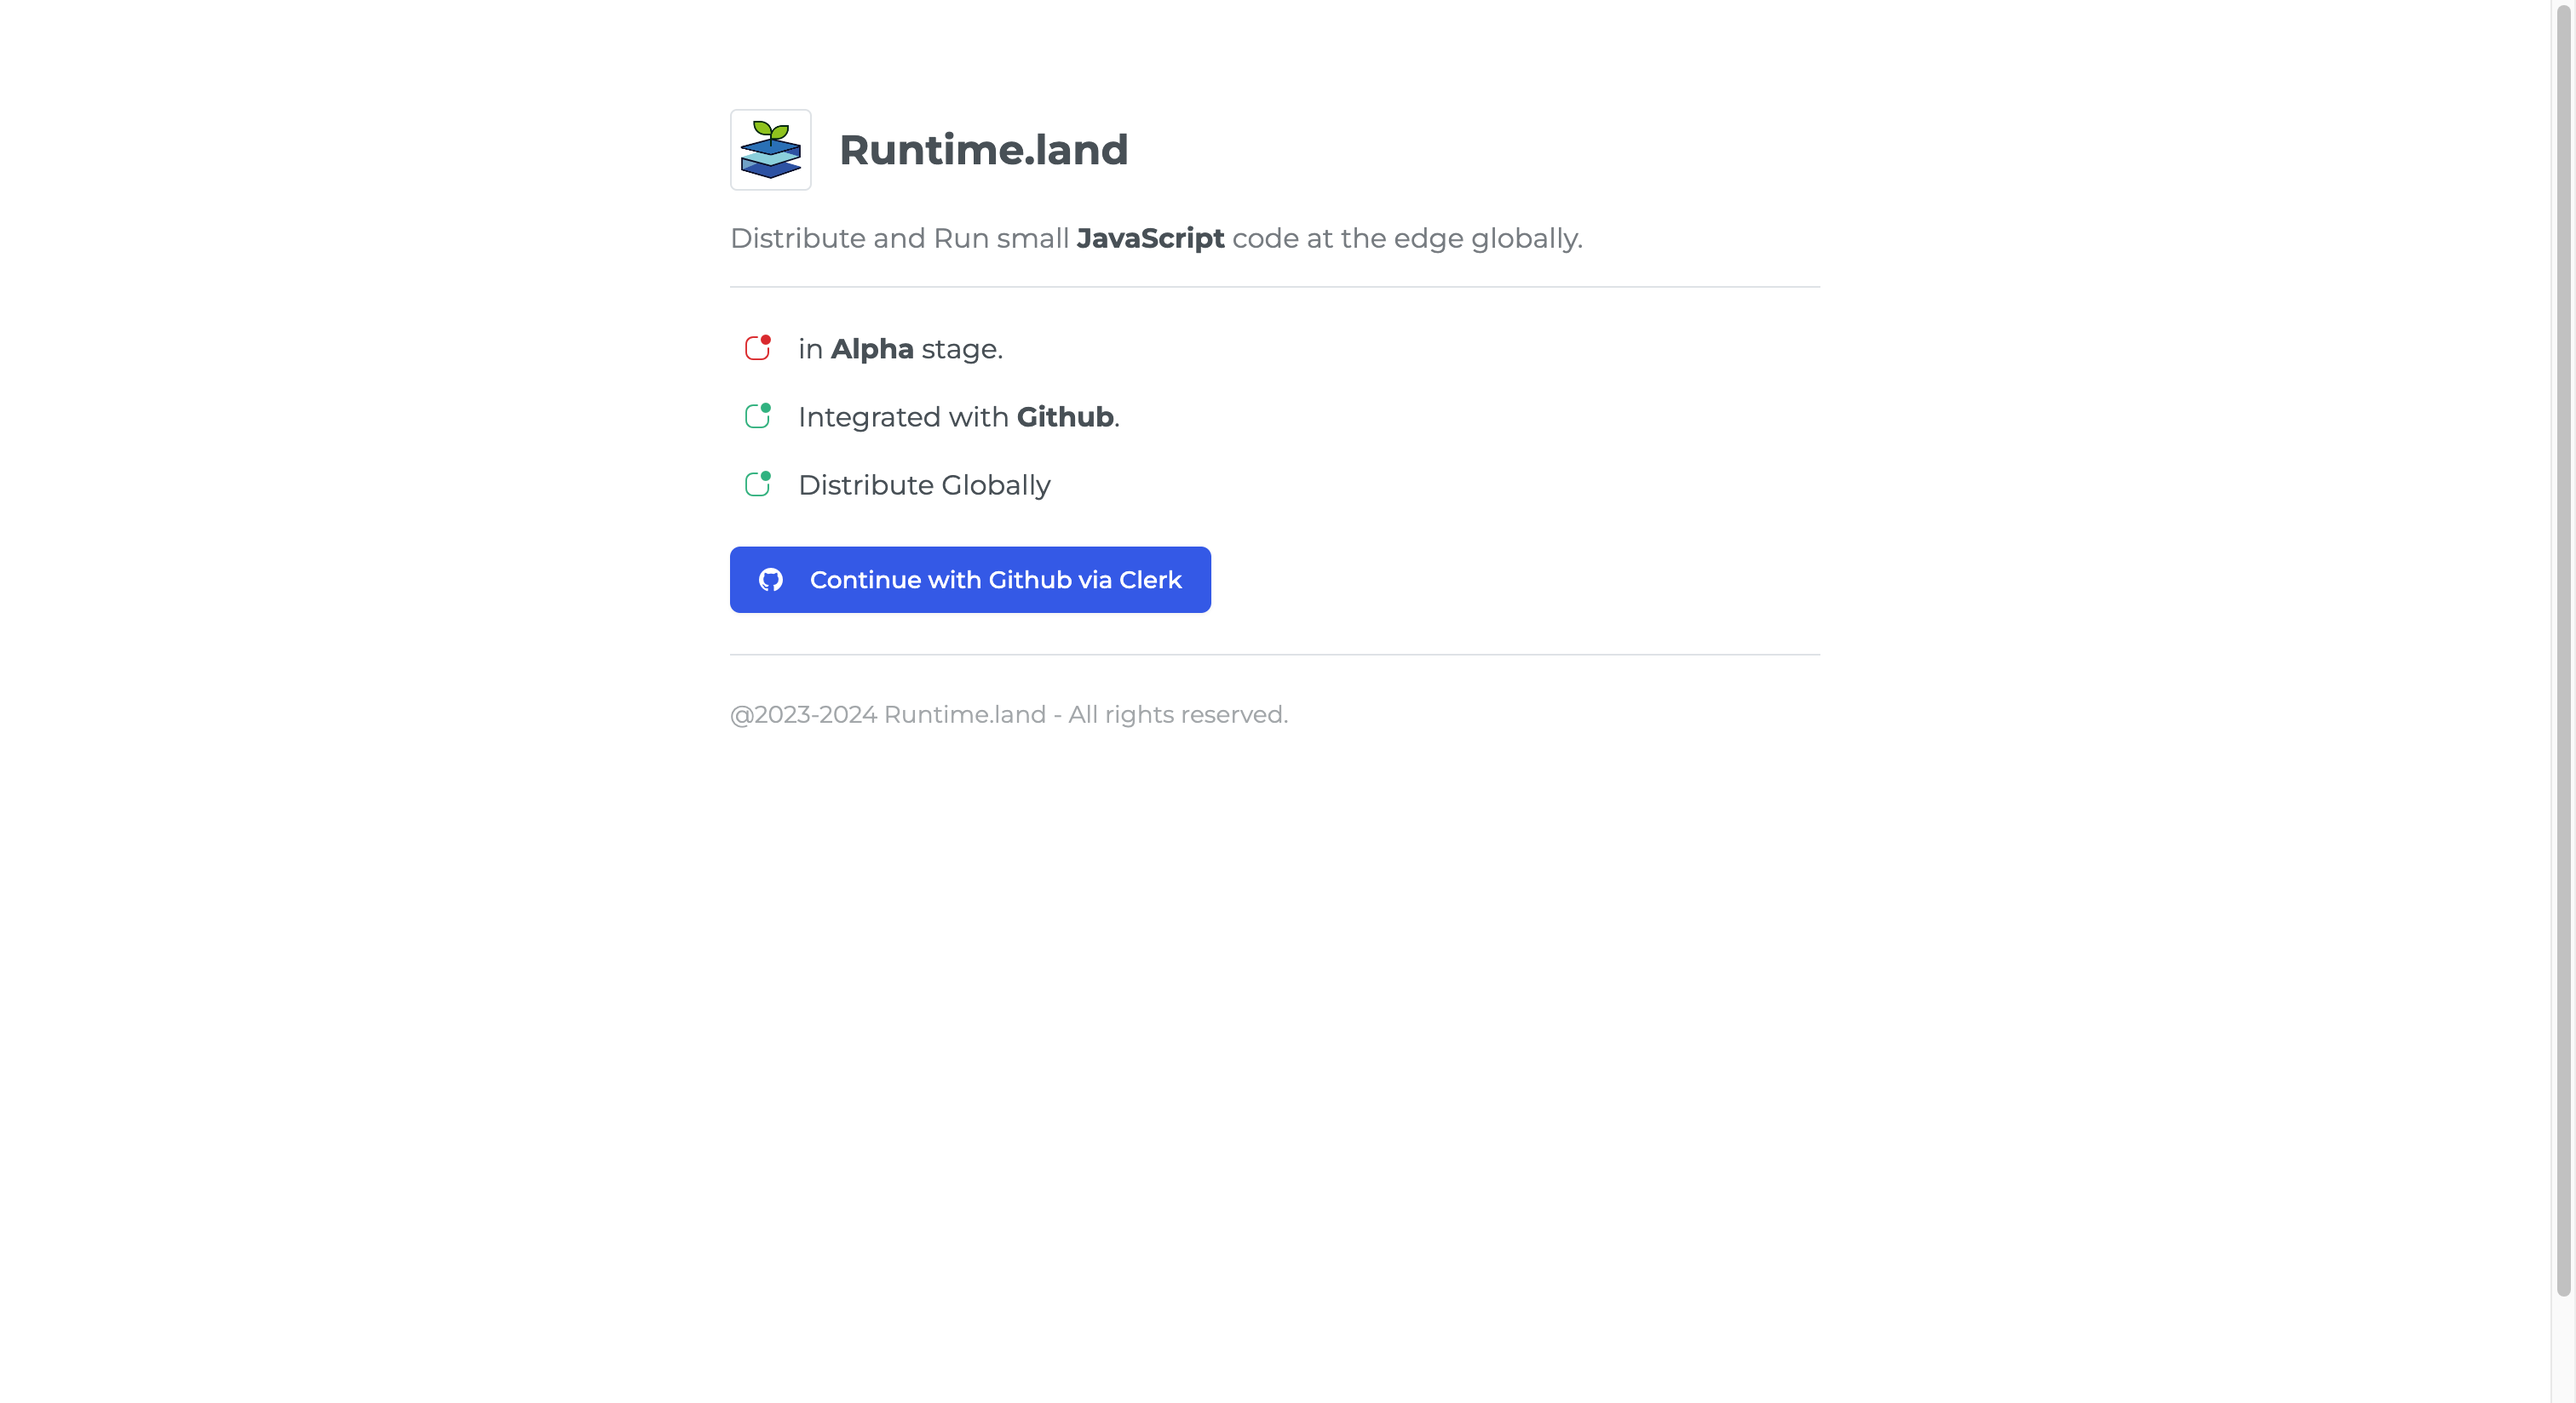
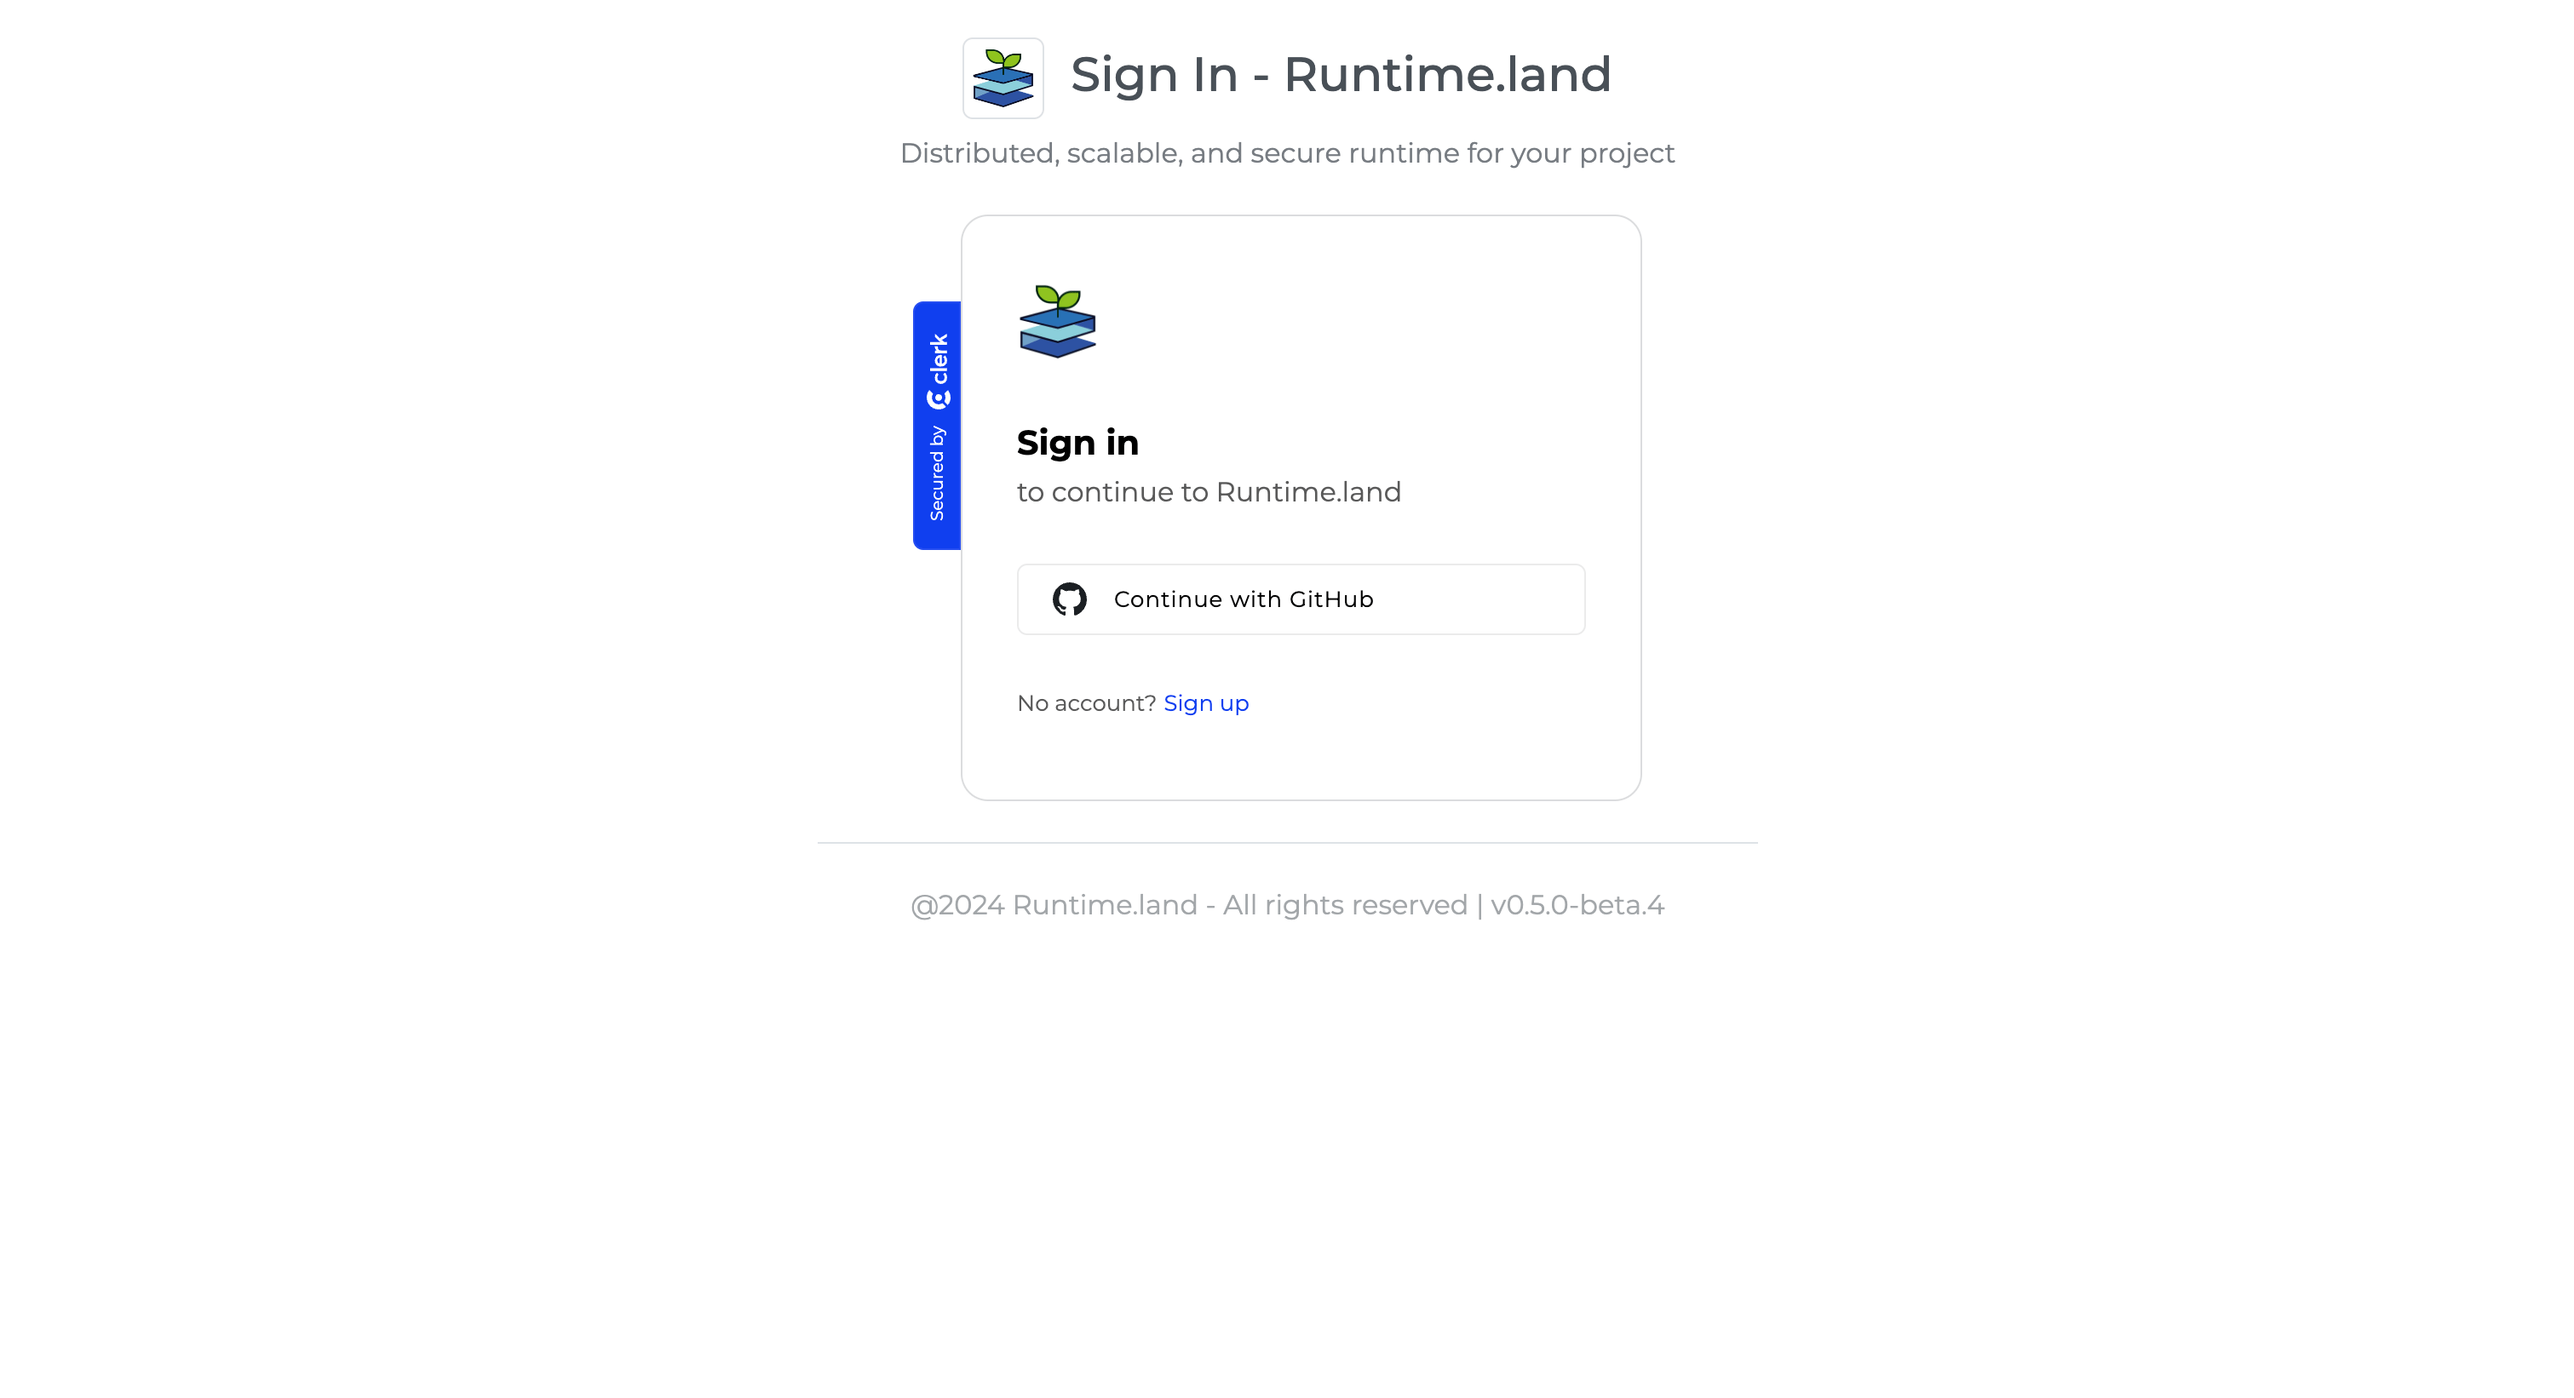
update guide images

diff --git a/src/guide.md b/src/guide.md
@@ -4,11 +4,9 @@ This is a guide to create new project for Runtime.land.
 
 ## Step 1: Sign In
 
-To get started, you need to a **Github account** to sign up. Go to [login page](/#) and click on the **Continue with Github** button. Then you will be redirect to Github to authorize the application. Click the "Authorize" button to connect your Github account with Runtime.land.
+To get started, you need to a **Github account** to sign up. Go to [login page](https://dash.runtime.land) and click on the **Continue with Github** button. Then you will be redirect to Github to authorize the application. Click the "Authorize" button to connect your Github account with Runtime.land.
 
 ![guide-1-sign-in](/img/guide-1-sign-in.png)
-
-![guide-1-sign-in-2](/img/guide-1-sign-in-2.png)
 
 ## Step 2: Create a New Project
 
@@ -16,7 +14,7 @@ A project is a function with a unique name. You can create a new project by clic
 
 ![guide-2-new-project](/img/guide-2-new-project.png)
 
-Choose a template and click **Edit Playground** to start creating new project with random name and editing the project code.
+Choose a template and click **Edit in Playground** to start creating new project with random name and editing the project code.
 
 ![guide-3-edit-playground](/img/guide-3-edit-playground.png)
 
